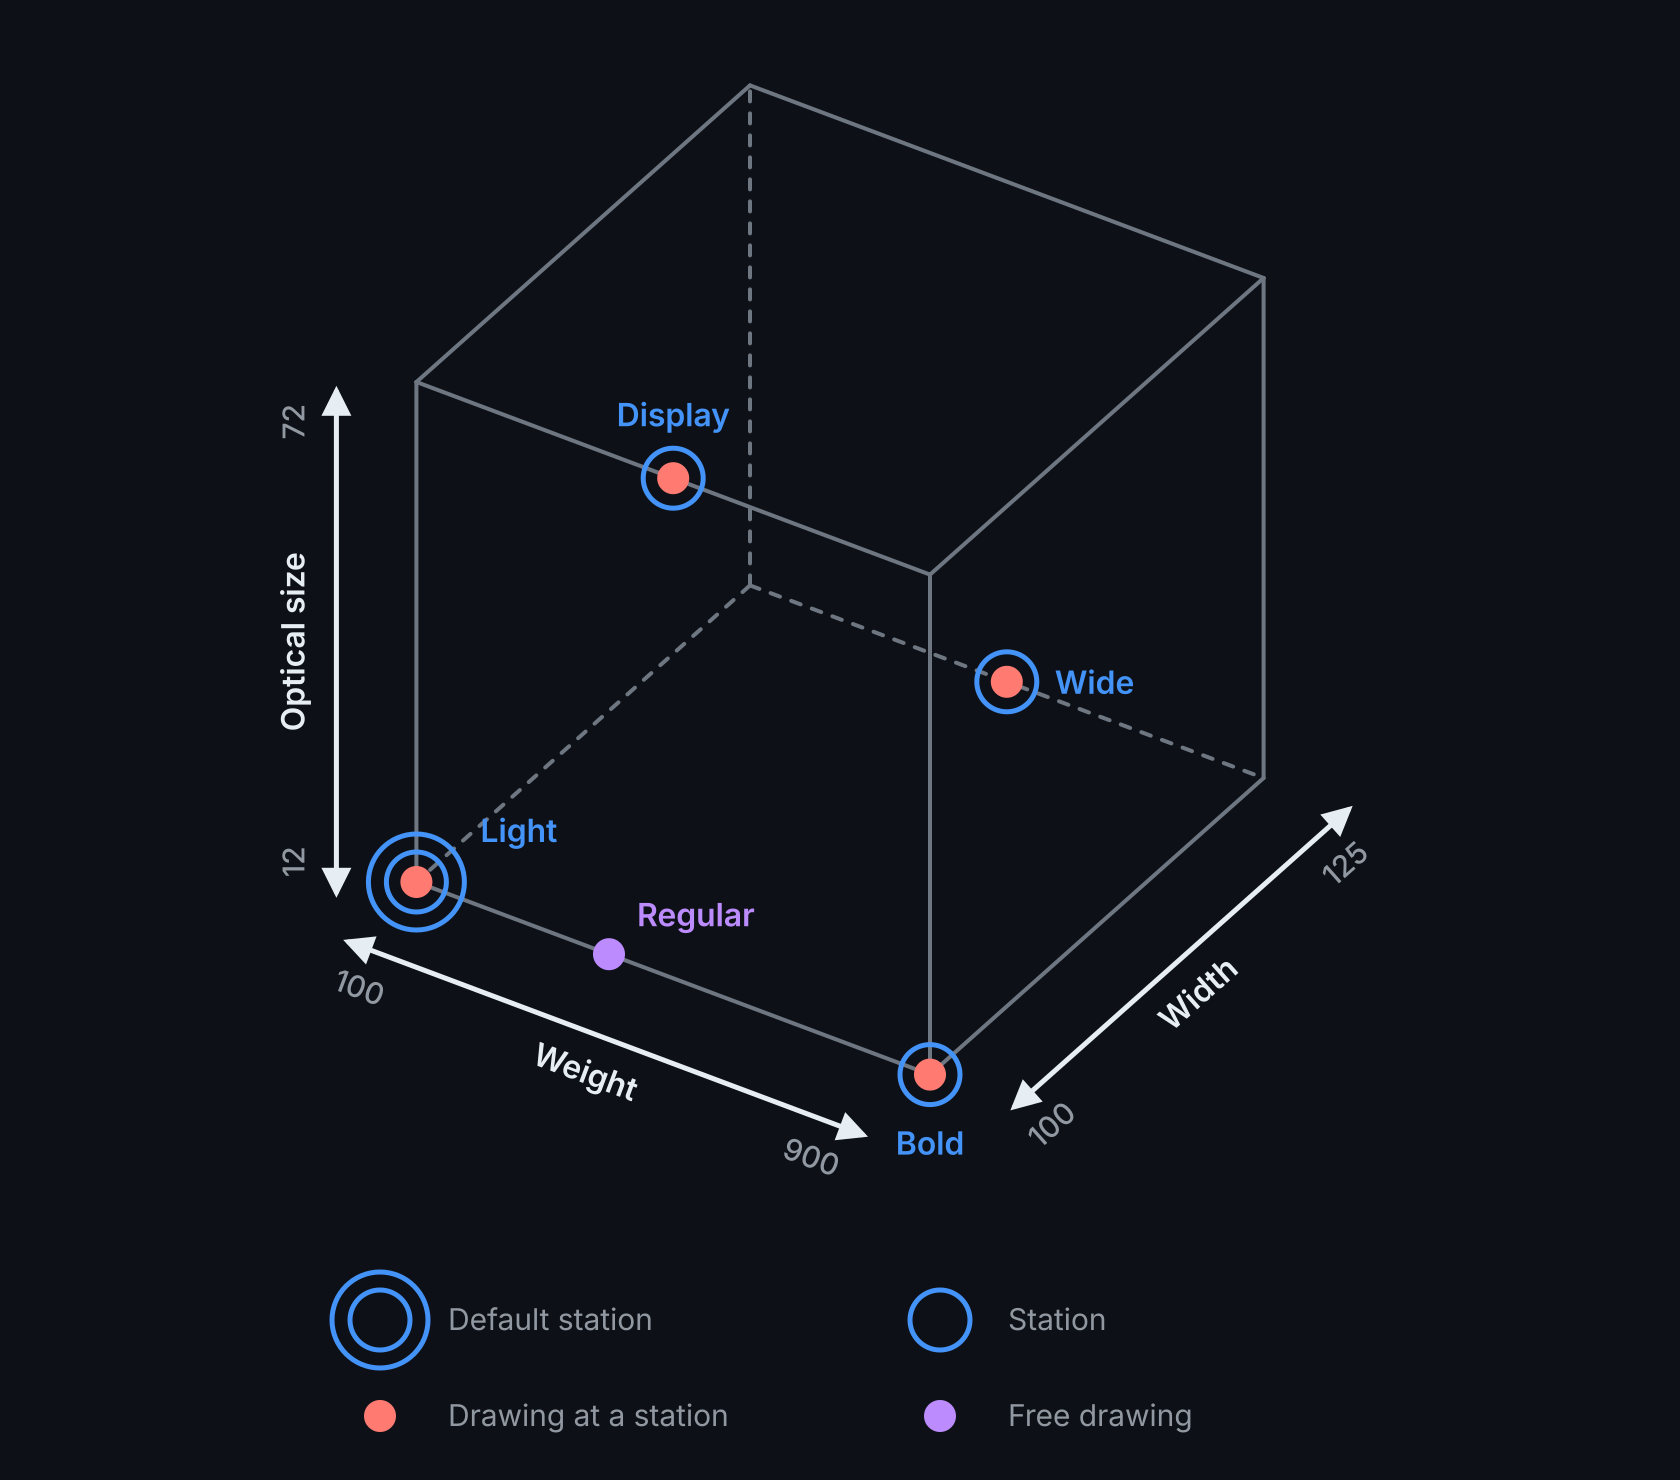
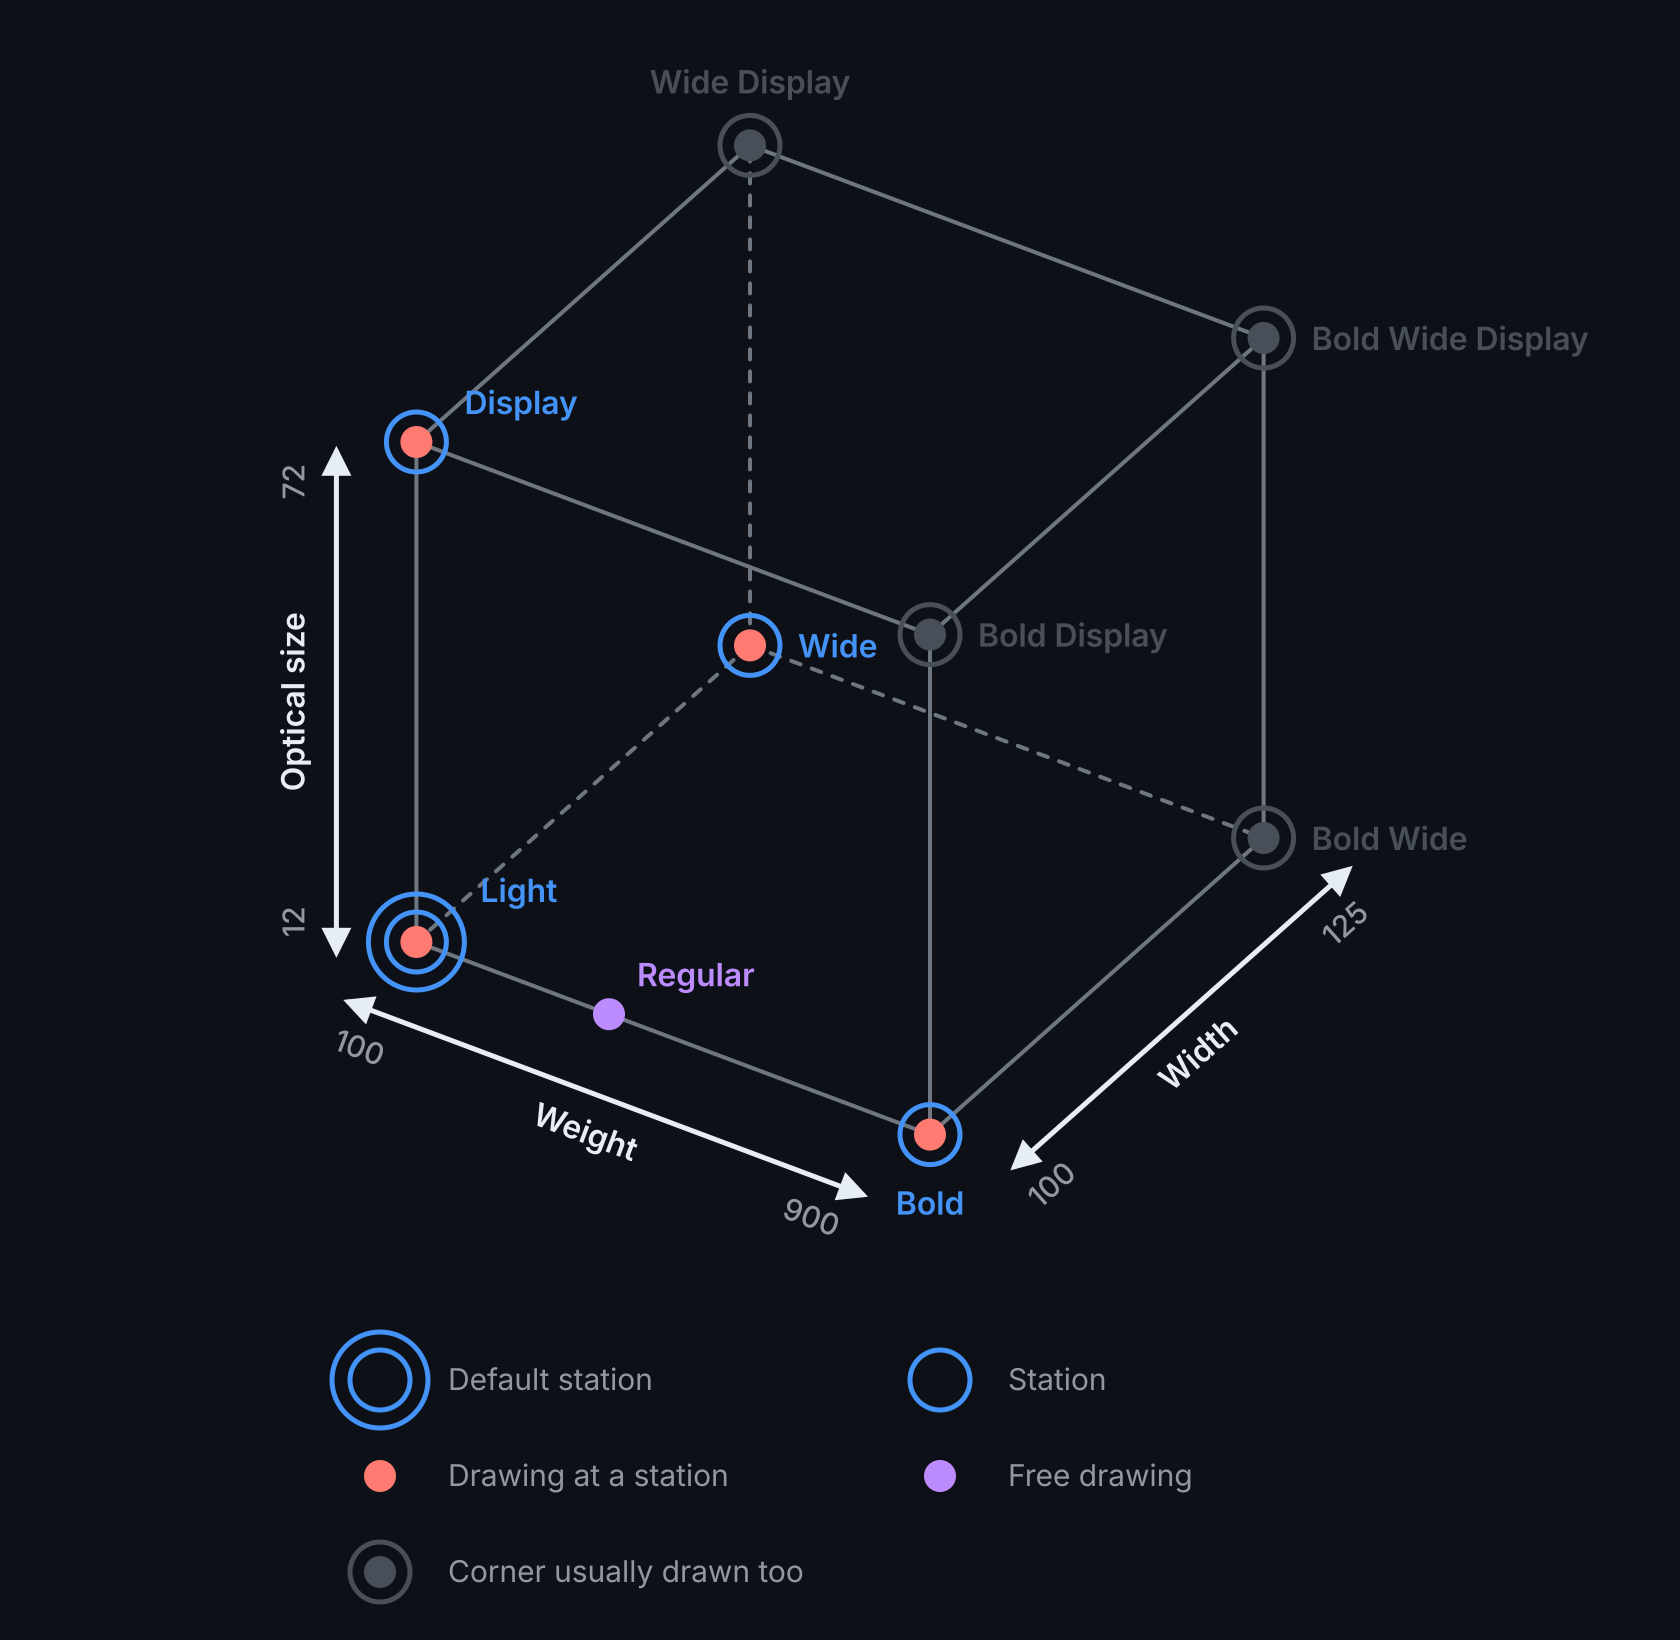
Simplify the designspace figure and explain sparse station setups
The figure now shows a box with four stations (Light as the default, plus Bold, Wide and Display one step along each axis), faint gray stations at the remaining corners, and a Regular free drawing. The page explains that the font computes missing corners by adding up the stations' changes, why designers usually draw them anyway, and when leaving one out makes sense.

diff --git a/documentation/type-design/01-designspace.md b/documentation/type-design/01-designspace.md
@@ -2,7 +2,7 @@
 
 A variable font is not one design but a continuous range of designs. You draw a few of them by hand, and the font computes (interpolates) everything in between. This page explains the words Counterpunch uses for the parts of that system and how they differ. The same words appear in the interface, in the handbook and in the Python API.
 
-![A designspace box with three axes: weight, width and optical size. Light and Bold sit at both ends of the weight axis, Display at the largest optical size, halfway along weight, and Wide at the far end of the width axis, halfway along weight. Light is the default station. Each station has a drawing at the same location, and a free drawing for Regular sits on the weight axis between Light and Bold.](images/designspace.svg)
+![A designspace box with three axes: weight, width and optical size. Light, the default station, sits at one corner. Bold, Wide and Display sit one step away from it along each axis. Each station has a drawing at the same location. The four remaining corners, such as Bold Wide, are shown in gray as stations a designer would usually draw too. A free drawing for Regular sits on the weight axis between Light and Bold.](images/designspace.svg)
 
 ## Designspace and axes
 
@@ -18,7 +18,13 @@ Its name, vertical metrics, and alignment zones are purely design-time aids to h
 
 One station is the **default station**. Apps that ignore variations show it, and the compiled font is built from it. In the figure it is Light, marked with a second ring, at the default location of all axes.
 
-You do not need a station on every corner of the designspace. Older multiple-master workflows put a master on each corner, which doubles the work with every new axis. Variable fonts only need stations where the design actually changes character. The figure has four stations for three axes: Light and Bold at both ends of the weight axis, which is common practice, and one more station halfway along weight for each other axis: Wide at the far end of the width axis and Display at the largest optical size. Everything between them is interpolated.
+You don’t need a station on every corner of the designspace. The figure has four: the default station Light, and one station at the far end of each axis, Bold for weight, Wide for width and Display for optical size. Each of them sits at the default of the other two axes, so the change it describes applies across the whole designspace. The font computes the remaining corners by adding up those changes: Bold Wide is Light, plus what Bold changes, plus what Wide changes. This is still interpolation, not extrapolation, because the corners lie inside the designspace.
+
+A station away from the default on another axis works differently. If Wide sat halfway along the weight axis, its change would fade out towards Light and Bold, and the font would only get wider around the middle weights.
+
+Adding up changes works, but nobody has looked at the result. The bold change was drawn on normal-width letters, and applied unchanged to wide or condensed letters it gives stems of the wrong thickness, counters that fill in and joins that don’t fit. That’s why professional designers prefer to draw every corner. The figure shows them in gray.
+
+Leaving a corner out makes sense where the combination is rarely used and the computed result is good enough. Nunito Sans, for example, draws its smallest optical size, 6 pt, only at normal width: condensed or expanded text at caption sizes is rare, so the font computes those corners. Axes designed to add up cleanly, such as the x-height and stem-thickness axes of Roboto Flex, get only one station at each end and none at the corners.
 
 Stations are listed in **Font Info → Stations**. Glyphs calls them _masters_; designspace files call them _sources_.
 
